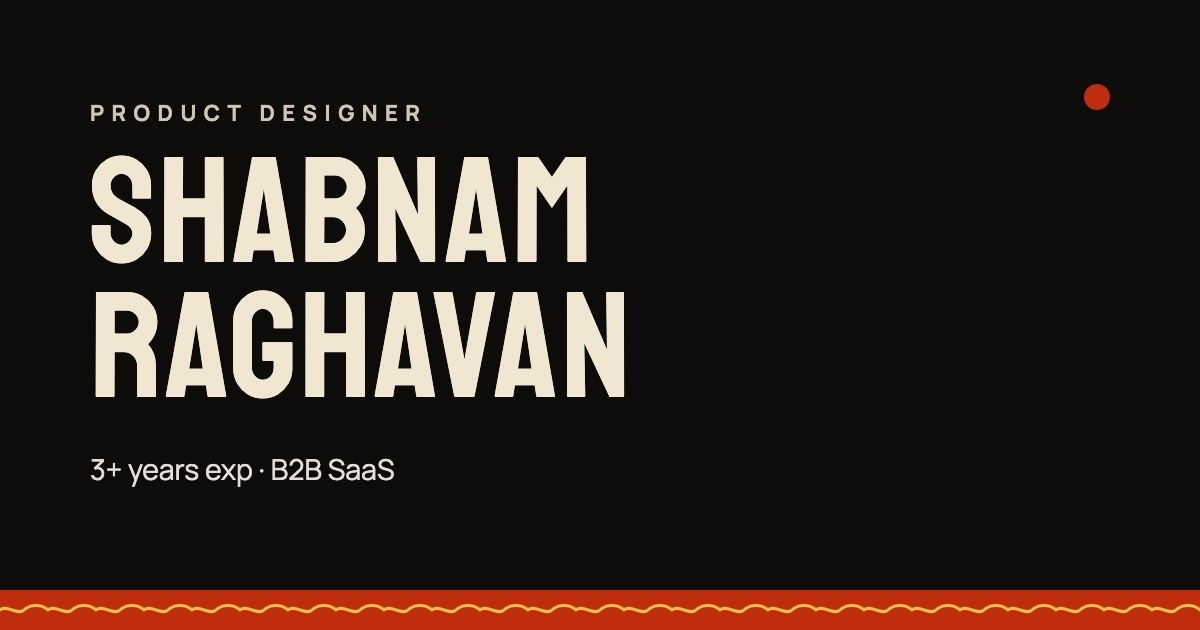
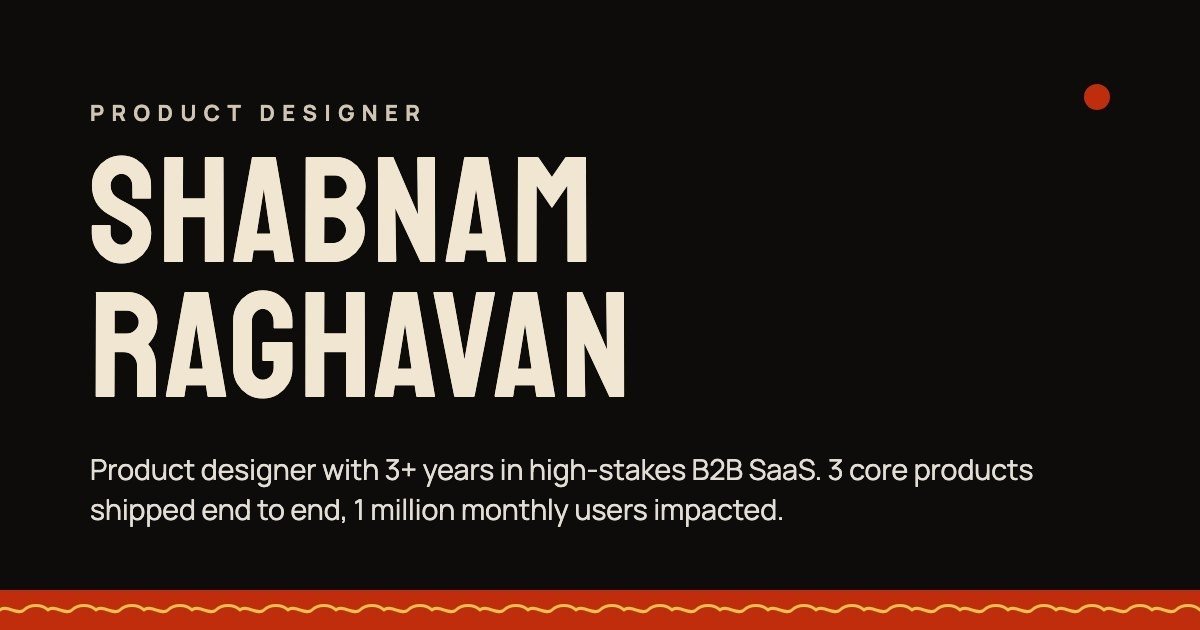
Share image line: "Product designer with 3+ years in high-stakes B2B SaaS. 3 core products shipped end to end, 1 million monthly users impacted." (og-share-v3.jpg)

Changed region(s): [[0.0617, 0.7238, 0.8633, 0.8444]]

diff --git a/ihx-user-management-case-study.html b/ihx-user-management-case-study.html
@@ -15,14 +15,14 @@
 <meta property="og:title" content="87% of Support Tickets Were for a Page Users Never Found · Shabnam Raghavan" />
 <meta property="og:description" content="A claims platform used by thousands of hospitals had no way for them to manage their own staff access, until this project gave it to them. 87.5% fewer user ops tickets." />
 <meta property="og:url" content="https://www.shabnamraghavan.com/ihx-user-management-case-study.html" />
-<meta property="og:image" content="https://www.shabnamraghavan.com/images/og-share-v2.jpg" />
+<meta property="og:image" content="https://www.shabnamraghavan.com/images/og-share-v3.jpg" />
 <meta property="og:image:width" content="1200" />
 <meta property="og:image:height" content="630" />
 <meta property="og:image:alt" content="Shabnam Raghavan, Product Designer" />
 <meta name="twitter:card" content="summary_large_image" />
 <meta name="twitter:title" content="87% of Support Tickets Were for a Page Users Never Found · Shabnam Raghavan" />
 <meta name="twitter:description" content="A claims platform used by thousands of hospitals had no way for them to manage their own staff access, until this project gave it to them. 87.5% fewer user ops tickets." />
-<meta name="twitter:image" content="https://www.shabnamraghavan.com/images/og-share-v2.jpg" />
+<meta name="twitter:image" content="https://www.shabnamraghavan.com/images/og-share-v3.jpg" />
 <link rel="icon" type="image/png" sizes="32x32" href="favicon-32.png" />
 <link rel="icon" type="image/svg+xml" href="favicon.svg" />
 <link rel="apple-touch-icon" sizes="180x180" href="favicon-180.png" />

diff --git a/ihx-nucleus-mobile-case-study.html b/ihx-nucleus-mobile-case-study.html
@@ -15,14 +15,14 @@
 <meta property="og:title" content="A Hospital App, Shipped in Three Weeks · Shabnam Raghavan" />
 <meta property="og:description" content="IHX Nucleus Mobile put the cashless claim in the hands of the doctors and nurses families were asking. Shipped in three weeks, now at 9,500+ daily active users." />
 <meta property="og:url" content="https://www.shabnamraghavan.com/ihx-nucleus-mobile-case-study.html" />
-<meta property="og:image" content="https://www.shabnamraghavan.com/images/og-share-v2.jpg" />
+<meta property="og:image" content="https://www.shabnamraghavan.com/images/og-share-v3.jpg" />
 <meta property="og:image:width" content="1200" />
 <meta property="og:image:height" content="630" />
 <meta property="og:image:alt" content="Shabnam Raghavan, Product Designer" />
 <meta name="twitter:card" content="summary_large_image" />
 <meta name="twitter:title" content="A Hospital App, Shipped in Three Weeks · Shabnam Raghavan" />
 <meta name="twitter:description" content="IHX Nucleus Mobile put the cashless claim in the hands of the doctors and nurses families were asking. Shipped in three weeks, now at 9,500+ daily active users." />
-<meta name="twitter:image" content="https://www.shabnamraghavan.com/images/og-share-v2.jpg" />
+<meta name="twitter:image" content="https://www.shabnamraghavan.com/images/og-share-v3.jpg" />
 <link rel="icon" type="image/png" sizes="32x32" href="favicon-32.png" />
 <link rel="icon" type="image/svg+xml" href="favicon.svg" />
 <link rel="apple-touch-icon" sizes="180x180" href="favicon-180.png" />

diff --git a/index.html b/index.html
@@ -14,14 +14,14 @@
 <meta property="og:title" content="Shabnam Raghavan · Product Designer" />
 <meta property="og:description" content="Shabnam Raghavan, product designer with 3+ years in high-stakes B2B SaaS. 3 core products shipped end to end, 1 million monthly users impacted." />
 <meta property="og:url" content="https://www.shabnamraghavan.com/" />
-<meta property="og:image" content="https://www.shabnamraghavan.com/images/og-share-v2.jpg" />
+<meta property="og:image" content="https://www.shabnamraghavan.com/images/og-share-v3.jpg" />
 <meta property="og:image:width" content="1200" />
 <meta property="og:image:height" content="630" />
 <meta property="og:image:alt" content="Shabnam Raghavan, Product Designer" />
 <meta name="twitter:card" content="summary_large_image" />
 <meta name="twitter:title" content="Shabnam Raghavan · Product Designer" />
 <meta name="twitter:description" content="Shabnam Raghavan, product designer with 3+ years in high-stakes B2B SaaS. 3 core products shipped end to end, 1 million monthly users impacted." />
-<meta name="twitter:image" content="https://www.shabnamraghavan.com/images/og-share-v2.jpg" />
+<meta name="twitter:image" content="https://www.shabnamraghavan.com/images/og-share-v3.jpg" />
 <meta name="description" content="Shabnam Raghavan, product designer with 3+ years in high-stakes B2B SaaS. 3 core products shipped end to end, 1 million monthly users impacted." />
 <link rel="icon" type="image/png" sizes="32x32" href="favicon-32.png" />
 <link rel="icon" type="image/svg+xml" href="favicon.svg" />

diff --git a/ihx_tpa_ops_.html b/ihx_tpa_ops_.html
@@ -15,14 +15,14 @@
 <meta property="og:title" content="A Four-Bucket Layout Was Hiding a Two-Team Operation · Shabnam Raghavan" />
 <meta property="og:description" content="A 4-bucket layout was hiding a multi-stage, two-team operation across 35+ insurance payers. Nobody had asked how hospital teams actually work. We did." />
 <meta property="og:url" content="https://www.shabnamraghavan.com/ihx_tpa_ops_.html" />
-<meta property="og:image" content="https://www.shabnamraghavan.com/images/og-share-v2.jpg" />
+<meta property="og:image" content="https://www.shabnamraghavan.com/images/og-share-v3.jpg" />
 <meta property="og:image:width" content="1200" />
 <meta property="og:image:height" content="630" />
 <meta property="og:image:alt" content="Shabnam Raghavan, Product Designer" />
 <meta name="twitter:card" content="summary_large_image" />
 <meta name="twitter:title" content="A Four-Bucket Layout Was Hiding a Two-Team Operation · Shabnam Raghavan" />
 <meta name="twitter:description" content="A 4-bucket layout was hiding a multi-stage, two-team operation across 35+ insurance payers. Nobody had asked how hospital teams actually work. We did." />
-<meta name="twitter:image" content="https://www.shabnamraghavan.com/images/og-share-v2.jpg" />
+<meta name="twitter:image" content="https://www.shabnamraghavan.com/images/og-share-v3.jpg" />
 <link rel="icon" type="image/png" sizes="32x32" href="favicon-32.png" />
 <link rel="icon" type="image/svg+xml" href="favicon.svg" />
 <link rel="apple-touch-icon" sizes="180x180" href="favicon-180.png" />

diff --git a/wisewomen-case-study.html b/wisewomen-case-study.html
@@ -15,14 +15,14 @@
 <meta property="og:title" content="Idea to Shipped in Five Days · Shabnam Raghavan" />
 <meta property="og:description" content="WiseWoman is a daily planning system that reads the body, not just the calendar: tasks mapped to life roles and cycle-phase energy, built end to end in five days." />
 <meta property="og:url" content="https://www.shabnamraghavan.com/wisewomen-case-study.html" />
-<meta property="og:image" content="https://www.shabnamraghavan.com/images/og-share-v2.jpg" />
+<meta property="og:image" content="https://www.shabnamraghavan.com/images/og-share-v3.jpg" />
 <meta property="og:image:width" content="1200" />
 <meta property="og:image:height" content="630" />
 <meta property="og:image:alt" content="Shabnam Raghavan, Product Designer" />
 <meta name="twitter:card" content="summary_large_image" />
 <meta name="twitter:title" content="Idea to Shipped in Five Days · Shabnam Raghavan" />
 <meta name="twitter:description" content="WiseWoman is a daily planning system that reads the body, not just the calendar: tasks mapped to life roles and cycle-phase energy, built end to end in five days." />
-<meta name="twitter:image" content="https://www.shabnamraghavan.com/images/og-share-v2.jpg" />
+<meta name="twitter:image" content="https://www.shabnamraghavan.com/images/og-share-v3.jpg" />
 <link rel="icon" type="image/png" sizes="32x32" href="favicon-32.png" />
 <link rel="icon" type="image/svg+xml" href="favicon.svg" />
 <link rel="apple-touch-icon" sizes="180x180" href="favicon-180.png" />

diff --git a/ihx-ai-features-case-study.html b/ihx-ai-features-case-study.html
@@ -15,14 +15,14 @@
 <meta property="og:title" content="AI Agents at Points of Human Friction · Shabnam Raghavan" />
 <meta property="og:description" content="IHX MIRA lets a hospital submit a claim as a conversation, built on four AI modules, each designed for a point where claim submission used to break." />
 <meta property="og:url" content="https://www.shabnamraghavan.com/ihx-ai-features-case-study.html" />
-<meta property="og:image" content="https://www.shabnamraghavan.com/images/og-share-v2.jpg" />
+<meta property="og:image" content="https://www.shabnamraghavan.com/images/og-share-v3.jpg" />
 <meta property="og:image:width" content="1200" />
 <meta property="og:image:height" content="630" />
 <meta property="og:image:alt" content="Shabnam Raghavan, Product Designer" />
 <meta name="twitter:card" content="summary_large_image" />
 <meta name="twitter:title" content="AI Agents at Points of Human Friction · Shabnam Raghavan" />
 <meta name="twitter:description" content="IHX MIRA lets a hospital submit a claim as a conversation, built on four AI modules, each designed for a point where claim submission used to break." />
-<meta name="twitter:image" content="https://www.shabnamraghavan.com/images/og-share-v2.jpg" />
+<meta name="twitter:image" content="https://www.shabnamraghavan.com/images/og-share-v3.jpg" />
 <link rel="icon" type="image/png" sizes="32x32" href="favicon-32.png" />
 <link rel="icon" type="image/svg+xml" href="favicon.svg" />
 <link rel="apple-touch-icon" sizes="180x180" href="favicon-180.png" />

diff --git a/about.html b/about.html
@@ -15,14 +15,14 @@
 <meta property="og:title" content="About · Shabnam Raghavan" />
 <meta property="og:description" content="Shabnam Raghavan, product designer from the Malabar Coast, now in Bangalore. A seeker who designs for how people actually behave." />
 <meta property="og:url" content="https://www.shabnamraghavan.com/about.html" />
-<meta property="og:image" content="https://www.shabnamraghavan.com/images/og-share-v2.jpg" />
+<meta property="og:image" content="https://www.shabnamraghavan.com/images/og-share-v3.jpg" />
 <meta property="og:image:width" content="1200" />
 <meta property="og:image:height" content="630" />
 <meta property="og:image:alt" content="Shabnam Raghavan, Product Designer" />
 <meta name="twitter:card" content="summary_large_image" />
 <meta name="twitter:title" content="About · Shabnam Raghavan" />
 <meta name="twitter:description" content="Shabnam Raghavan, product designer from the Malabar Coast, now in Bangalore. A seeker who designs for how people actually behave." />
-<meta name="twitter:image" content="https://www.shabnamraghavan.com/images/og-share-v2.jpg" />
+<meta name="twitter:image" content="https://www.shabnamraghavan.com/images/og-share-v3.jpg" />
 <link rel="icon" type="image/png" sizes="32x32" href="favicon-32.png" />
 <link rel="icon" type="image/svg+xml" href="favicon.svg" />
 <link rel="apple-touch-icon" sizes="180x180" href="favicon-180.png" />

diff --git a/resume.html b/resume.html
@@ -15,14 +15,14 @@
 <meta property="og:title" content="Resume · Shabnam Raghavan" />
 <meta property="og:description" content="Resume of Shabnam Raghavan. 3+ years in product design for B2B SaaS, mobile and web." />
 <meta property="og:url" content="https://www.shabnamraghavan.com/resume.html" />
-<meta property="og:image" content="https://www.shabnamraghavan.com/images/og-share-v2.jpg" />
+<meta property="og:image" content="https://www.shabnamraghavan.com/images/og-share-v3.jpg" />
 <meta property="og:image:width" content="1200" />
 <meta property="og:image:height" content="630" />
 <meta property="og:image:alt" content="Shabnam Raghavan, Product Designer" />
 <meta name="twitter:card" content="summary_large_image" />
 <meta name="twitter:title" content="Resume · Shabnam Raghavan" />
 <meta name="twitter:description" content="Resume of Shabnam Raghavan. 3+ years in product design for B2B SaaS, mobile and web." />
-<meta name="twitter:image" content="https://www.shabnamraghavan.com/images/og-share-v2.jpg" />
+<meta name="twitter:image" content="https://www.shabnamraghavan.com/images/og-share-v3.jpg" />
 <link rel="icon" type="image/png" sizes="32x32" href="favicon-32.png" />
 <link rel="icon" type="image/svg+xml" href="favicon.svg" />
 <link rel="apple-touch-icon" sizes="180x180" href="favicon-180.png" />
